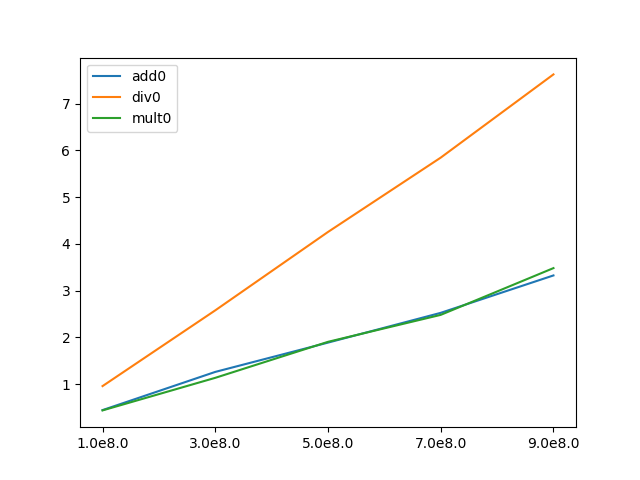
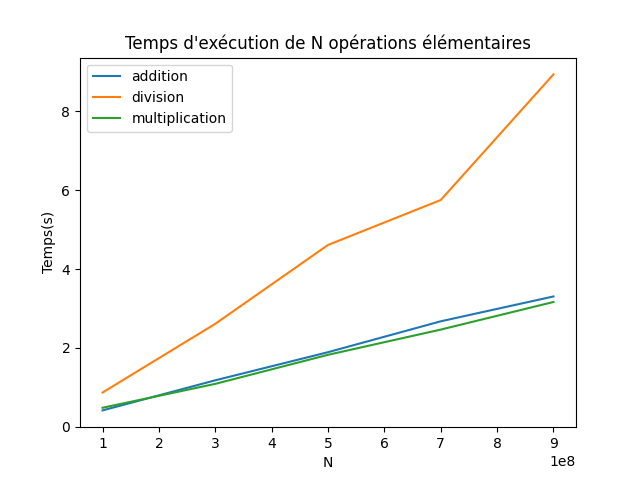
Graphs

diff --git a/TP2/graph.py b/TP2/graph.py
@@ -1,0 +1,29 @@
+import subprocess
+import numpy as np 
+import matplotlib.pyplot as plt
+
+
+N = []
+repo = "Lennard/res/"
+Files = ["LennardNaif1.txt","Lennard11.txt","Lennard21.txt","LennardFinal1.txt"]
+Legendes = ["Version Non Opti","Première Opti","Deuxième Opti","Version Finale"]
+res = [[],[],[],[]]
+
+def toFloat(string) :
+    x = string.split("e")
+    return float(x[0])*10**float(x[1])
+
+for i in range(0, len(Files)) :
+    with open (repo+Files[i]) as file :
+        N = []
+        res = []
+        for lines in file :
+            N.append(toFloat(lines.strip().split(";")[0]))
+            res.append(float(lines.strip().split(";")[1]))
+        plt.plot(N,res)
+
+plt.title("Temps d'exécution de N potentiels \navec différentes optimisations")
+plt.xlabel("N")
+plt.ylabel("Temps(s)")
+plt.legend(Legendes)
+plt.show()

diff --git a/TP1/graph.py b/TP1/graph.py
@@ -1,0 +1,30 @@
+import subprocess
+import numpy as np 
+import matplotlib.pyplot as plt
+
+
+N = []
+repo = ""
+# Files = ["add0.txt","div0.txt","mult0.txt"]
+Files = ["Int/res/div0.txt","Double/res/div0.txt"]
+Legendes = ["divisions entiere","divisions double"]
+res = [[],[]]
+
+def toFloat(string) :
+    x = string.split("e")
+    return float(x[0])*10**float(x[1])
+
+for i in range(0, len(Files)) :
+    with open (repo+Files[i]) as file :
+        N = []
+        res = []
+        for lines in file :
+            N.append(toFloat(lines.strip().split(";")[0]))
+            res.append(float(lines.strip().split(";")[1]))
+        plt.plot(N,res)
+
+plt.title("Temps d'exécution de N divisions sur des doubles et des entiers")
+plt.xlabel("N")
+plt.ylabel("Temps(s)")
+plt.legend(Legendes)
+plt.show()

diff --git a/TP3/loop_interchange/graph.py b/TP3/loop_interchange/graph.py
@@ -1,0 +1,27 @@
+import subprocess
+import numpy as np 
+import matplotlib.pyplot as plt
+
+
+repo = "res/"
+Files = ["loopinterchange-bad1.txt","loopinterchange-good1.txt"]
+Legendes = ["Version non optimisée","Version optimisée"]
+
+def toFloat(string) :
+    x = string.split("e")
+    return float(x[0])*10**float(x[1])
+
+for i in range(0, len(Files)) :
+    with open (repo+Files[i]) as file :
+        N = []
+        res = []
+        for lines in file :
+            N.append(float(lines.strip().split(";")[0]))
+            res.append(float(lines.strip().split(";")[1]))
+        plt.plot(N,res)
+
+plt.title("Temps d'exécution pour 10000 exécutions de la boucle")
+plt.xlabel("Dimension des tableaux")
+plt.ylabel("Temps(s)")
+plt.legend(Legendes)
+plt.show()

diff --git a/TP3/loop_fusion/graph.py b/TP3/loop_fusion/graph.py
@@ -1,0 +1,27 @@
+import subprocess
+import numpy as np 
+import matplotlib.pyplot as plt
+
+
+repo = "res/"
+Files = ["loop-fusion-bad1.txt","loop-fusion-good1.txt"]
+Legendes = ["Version non optimisée","Version optimisée"]
+
+def toFloat(string) :
+    x = string.split("e")
+    return float(x[0])*10**float(x[1])
+
+for i in range(0, len(Files)) :
+    with open (repo+Files[i]) as file :
+        N = []
+        res = []
+        for lines in file :
+            N.append(float(lines.strip().split(";")[0]))
+            res.append(float(lines.strip().split(";")[1]))
+        plt.plot(N,res)
+
+plt.title("Temps d'exécution pour 100000 exécutions de la boucle")
+plt.xlabel("Dimension des tableaux")
+plt.ylabel("Temps(s)")
+plt.legend(Legendes)
+plt.show()

diff --git a/TP1/Double/graph.py b/TP1/Double/graph.py
@@ -1,0 +1,29 @@
+import subprocess
+import numpy as np 
+import matplotlib.pyplot as plt
+
+
+N = []
+repo = "res/"
+Files = ["add0.txt","div0.txt","mult0.txt"]
+Legendes = ["addition","division","multiplication"]
+res = [[],[],[]]
+
+def toFloat(string) :
+    x = string.split("e")
+    return float(x[0])*10**float(x[1])
+
+for i in range(0, len(Files)) :
+    with open (repo+Files[i]) as file :
+        N = []
+        res = []
+        for lines in file :
+            N.append(toFloat(lines.strip().split(";")[0]))
+            res.append(float(lines.strip().split(";")[1]))
+        plt.plot(N,res)
+
+plt.title("Temps d'exécution de N opérations élémentaires sur des doubles")
+plt.xlabel("N")
+plt.ylabel("Temps(s)")
+plt.legend(Legendes)
+plt.show()

diff --git a/TP1/Int/graph.py b/TP1/Int/graph.py
@@ -1,0 +1,29 @@
+import subprocess
+import numpy as np 
+import matplotlib.pyplot as plt
+
+
+N = []
+repo = "res/"
+Files = ["add0.txt","div0.txt","mult0.txt"]
+Legendes = ["addition","division","multiplication"]
+res = [[],[],[]]
+
+def toFloat(string) :
+    x = string.split("e")
+    return float(x[0])*10**float(x[1])
+
+for i in range(0, len(Files)) :
+    with open (repo+Files[i]) as file :
+        N = []
+        res = []
+        for lines in file :
+            N.append(toFloat(lines.strip().split(";")[0]))
+            res.append(float(lines.strip().split(";")[1]))
+        plt.plot(N,res)
+
+plt.title("Temps d'exécution de N opérations élémentaires sur des entiers")
+plt.xlabel("N")
+plt.ylabel("Temps(s)")
+plt.legend(Legendes)
+plt.show()

diff --git a/TP2/Lennard/exec.py b/TP2/Lennard/exec.py
@@ -5,17 +5,17 @@ import matplotlib.pyplot as plt
 
 # Init:
 samples = 3
-# cFile = ["LennardNaif","Lennard1","Lennard2","LennardFinal"]
+cFile = ["LennardNaif","Lennard1","Lennard2","LennardFinal"]
 # cFile = ["sqrt"]
 ext = ".out"
-Opt = ["1","2"]
+Opt = ["0"]
 
 subprocess.run(["mkdir","out"])
 subprocess.run(["mkdir","res"])
 
 N = []
 a = np.linspace(1,9,5)
-b = np.linspace(8,8,1)
+b = np.linspace(7,7,1)
 for i in range (0,len(b)) :
     for j in range(0,len(a)) :
         N.append(str(a[j])+"e"+str(b[i]))

diff --git a/TP2/exec.py b/TP2/exec.py
@@ -6,7 +6,7 @@ import matplotlib.pyplot as plt
 # Init:
 samples = 3
 # cFile = ["add","div","mult","sqrt"]
-cFile = ["sqrt"]
+cFile = ["add"]
 ext = ".out"
 Opt = ["0","1","2","3"]
 
@@ -71,6 +71,8 @@ for i in range (0, len(res)) :
             file.write(str(x[i])+";"+str(y[i])+"\n")
 
 
-
+plt.title("Temps d'exécution selon différents degrés \nd'optimisation pour N opérations")
+plt.xlabel("N")
+plt.ylabel("Temps(s)")
 plt.legend(legendes)
 plt.show()

diff --git a/TP1/Double/exec.py b/TP1/Double/exec.py
@@ -71,6 +71,9 @@ for i in range (0, len(res)) :
             file.write(str(x[i])+";"+str(y[i])+"\n")
 
 
+plt.title("Temps d'exécution pour N opérations")
+plt.xlabel("N")
+plt.ylabel("Temps(s)")
 
 plt.legend(legendes)
 plt.show()

diff --git a/TP1/Int/exec.py b/TP1/Int/exec.py
@@ -71,6 +71,8 @@ for i in range (0, len(res)) :
             file.write(str(x[i])+";"+str(y[i])+"\n")
 
 
-
+plt.title("Temps d'exécution pour N opérations")
+plt.xlabel("N")
+plt.ylabel("Temps(s)")
 plt.legend(legendes)
 plt.show()
